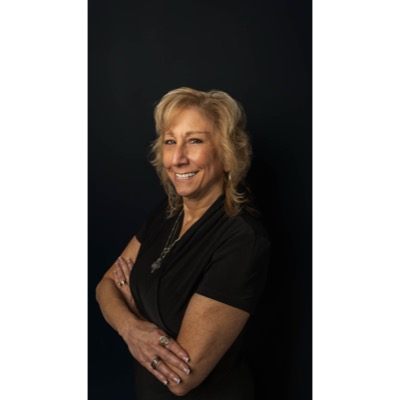
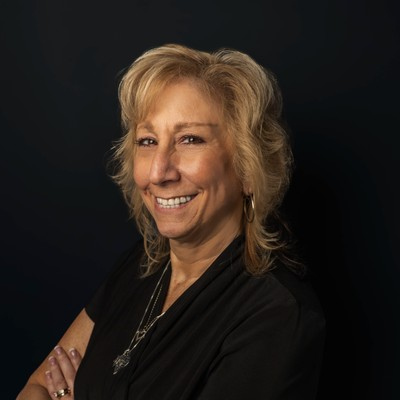
fix(team-images): replace Sondra with 1:1 pre-cropped source
Source: ~/Downloads/1x1-sondra.png (1044x1044 already 1:1, no crop
needed). Resized straight to 400x400 at q=90 (20 KB). Face framed
exactly as the source intended — no algorithmic guessing.

cacheVer 17 -> 18.

diff --git a/index.html b/index.html
@@ -262,7 +262,7 @@ Fort Lauderdale, FL 33311</textarea>
     <label for="assetBase">Asset base URL</label>
     <input id="assetBase" value="https://cdn.jsdelivr.net/gh/SMAART-Company/smaart-gmail-signatures@main" />
     <label for="cacheVer">Image cache version <span class="hint">bump when a photo/logo changes — forces Gmail image proxy to refetch</span></label>
-    <input id="cacheVer" value="17" />
+    <input id="cacheVer" value="18" />
     <label class="toggle" style="margin-top:12px;"><input type="checkbox" id="embedPhoto" checked />Embed photo as base64 <span class="hint">bulletproof — photo lives inside the signature HTML, can't break. Resized client-side at copy time.</span></label>
 
     <div class="actions">